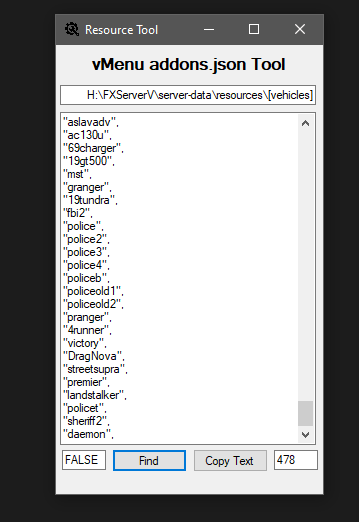
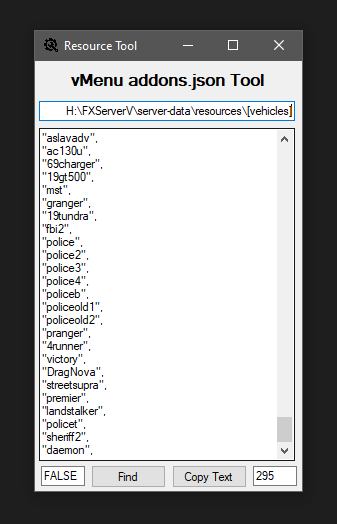
Update #1 v1.0.0
Fixed total count
Updated screenshot

Changed region(s): [[0.089, 0.0, 0.9199, 0.9502]]

diff --git a/ResourceTool/Form1.cs b/ResourceTool/Form1.cs
@@ -74,7 +74,7 @@ namespace ResourceTool
                 }
 
                 // Show how many files
-                textBox3.Text = Files.Length.ToString();
+                textBox3.Text = list.Count.ToString();
 
                 foreach (string item in list)
                 {
